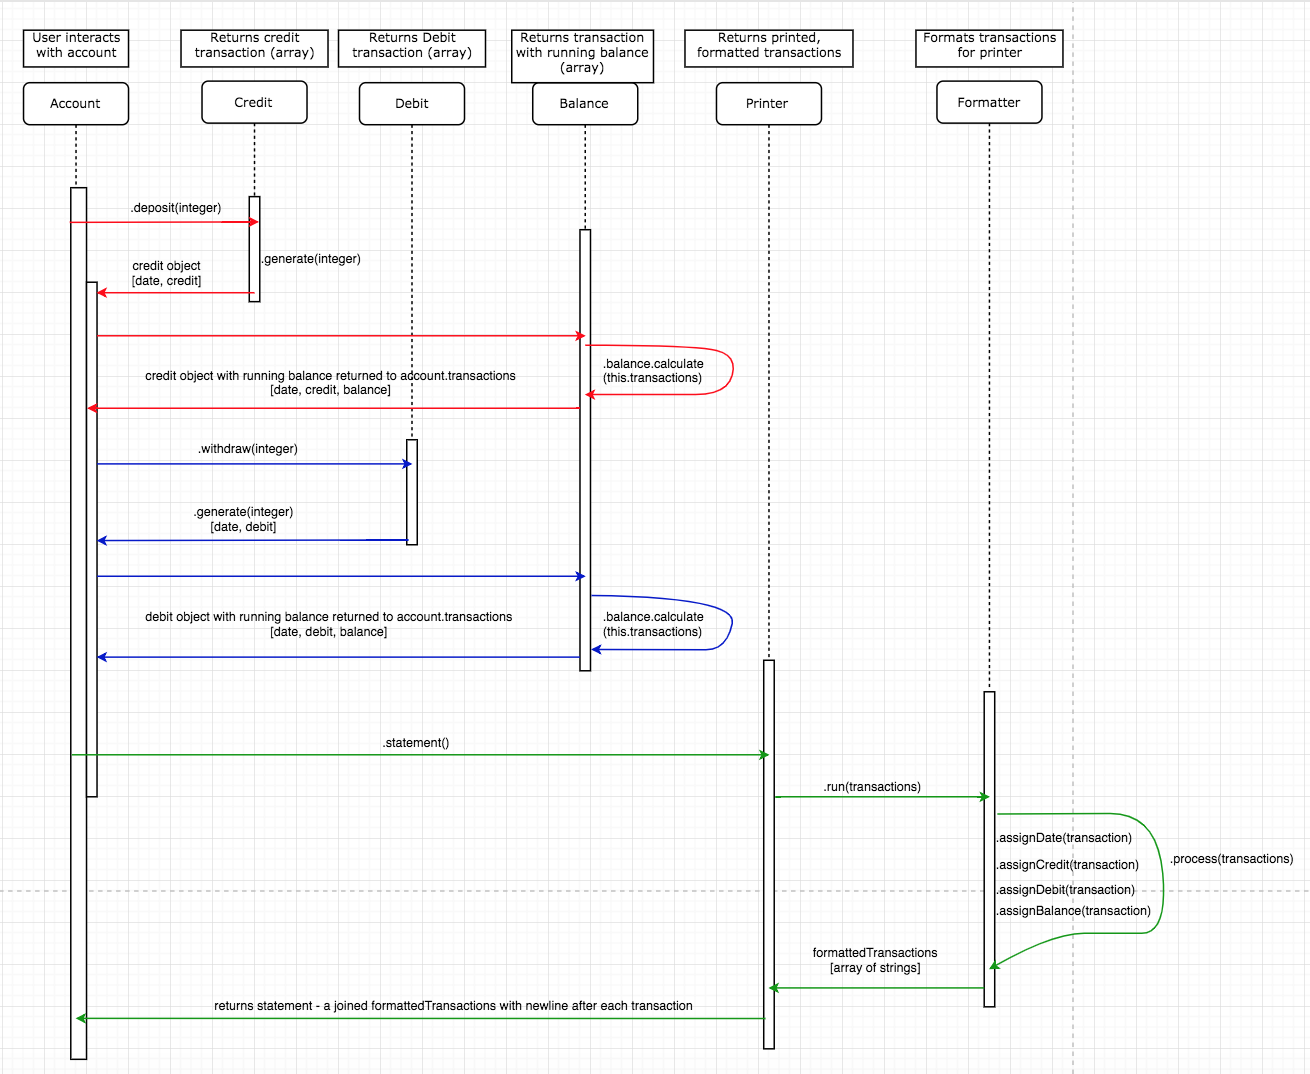
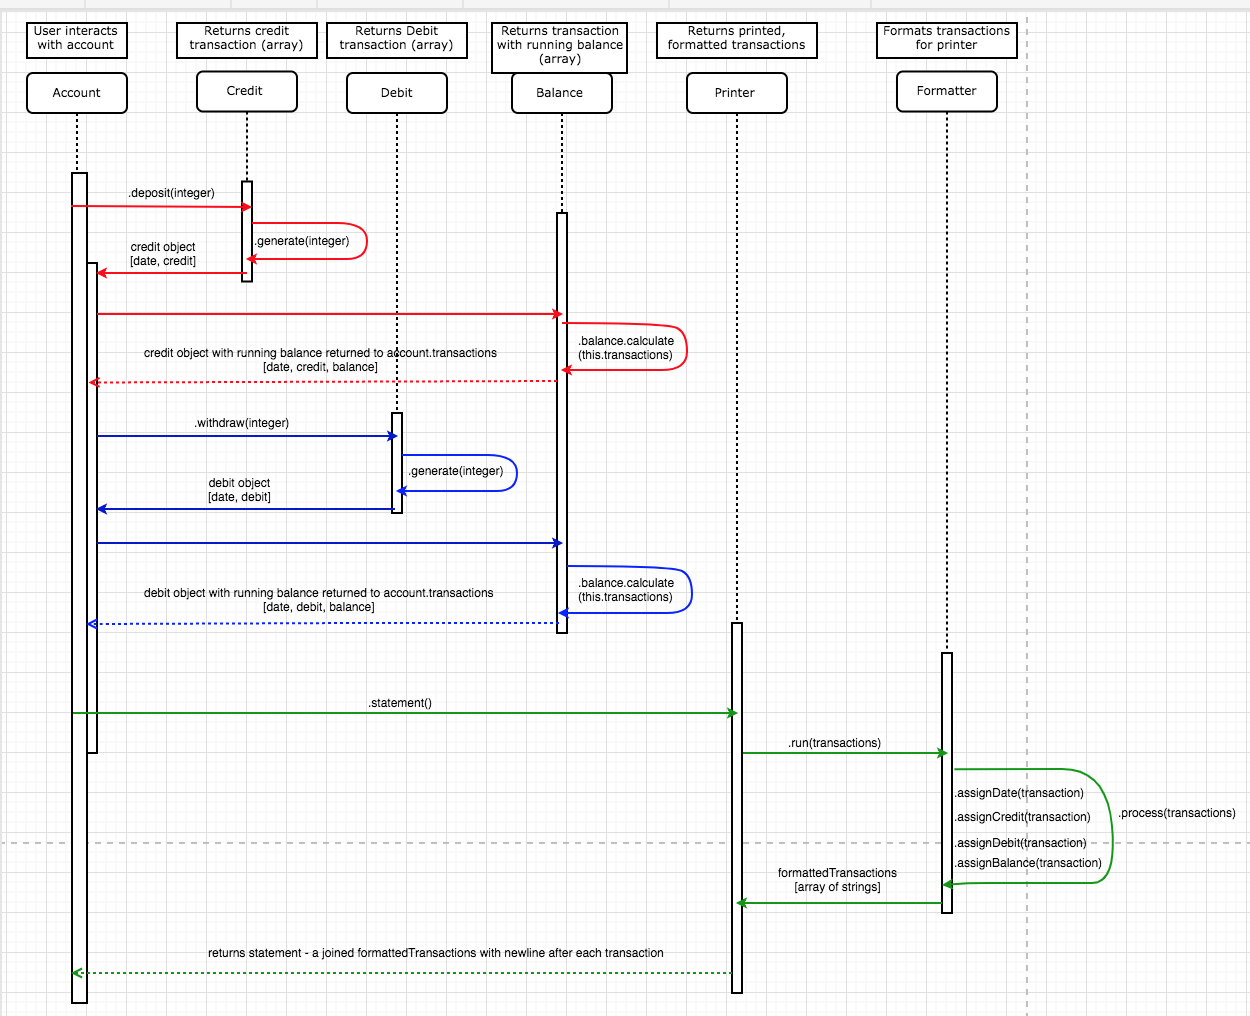
Updated UML diagram for README

diff --git a/README.md b/README.md
@@ -1,5 +1,3 @@
-Makers Academy week 7 tech test - showcasing OO design and TDD skills.
-
 ## Requirements & Running
 -------------------------
 
